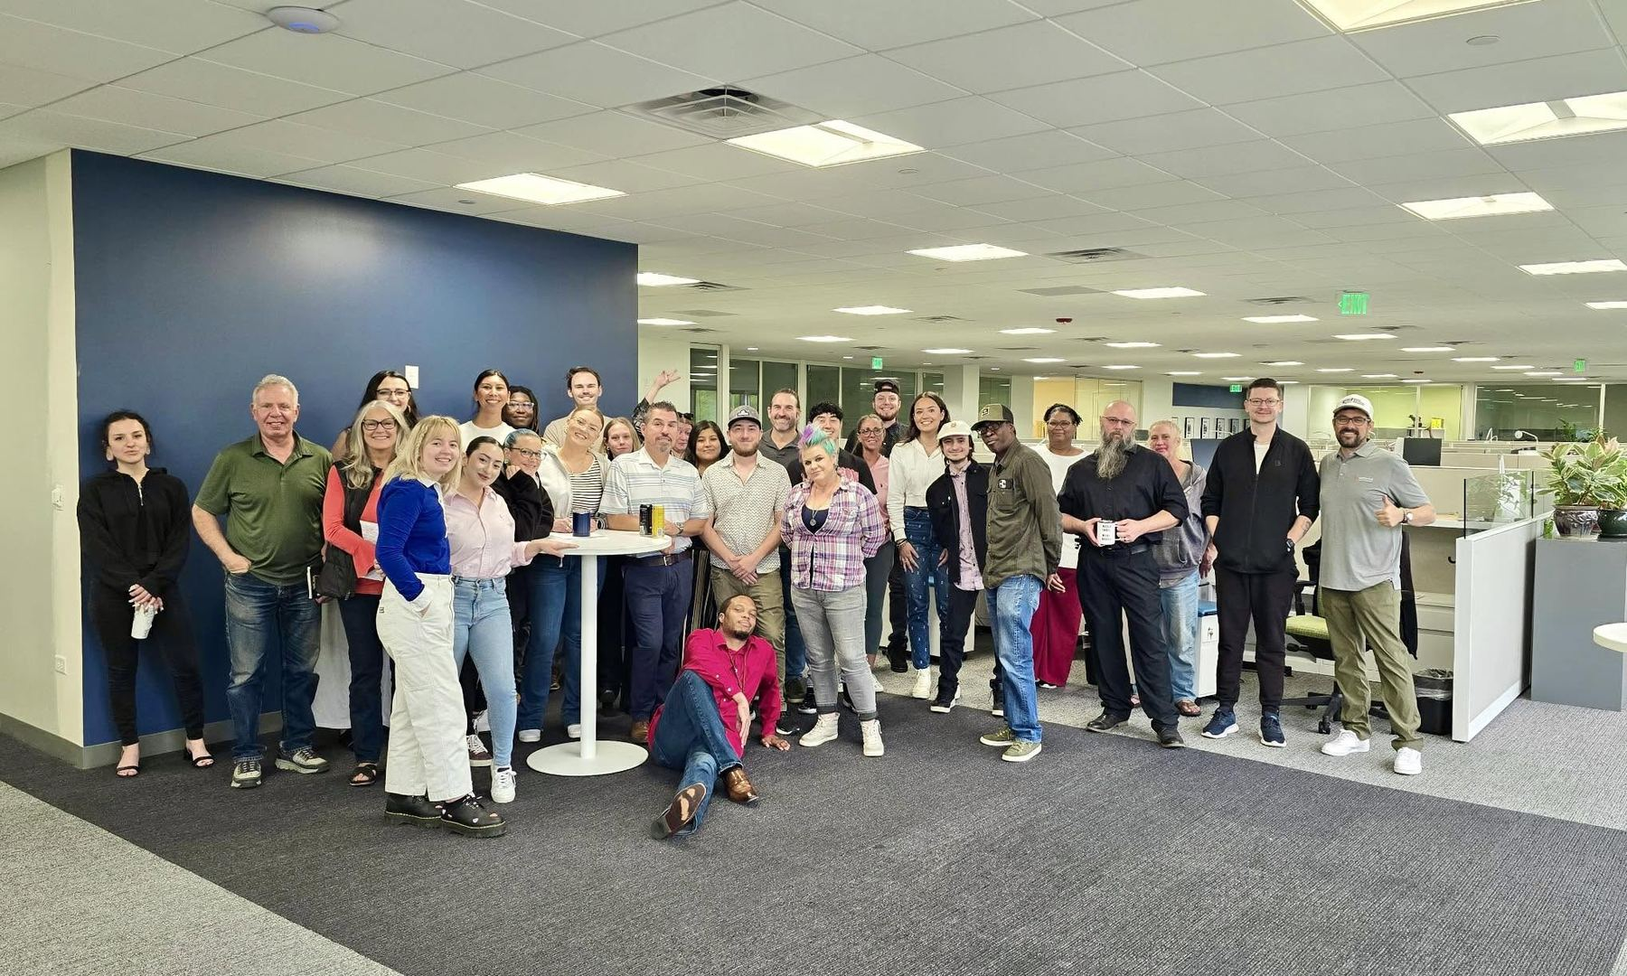
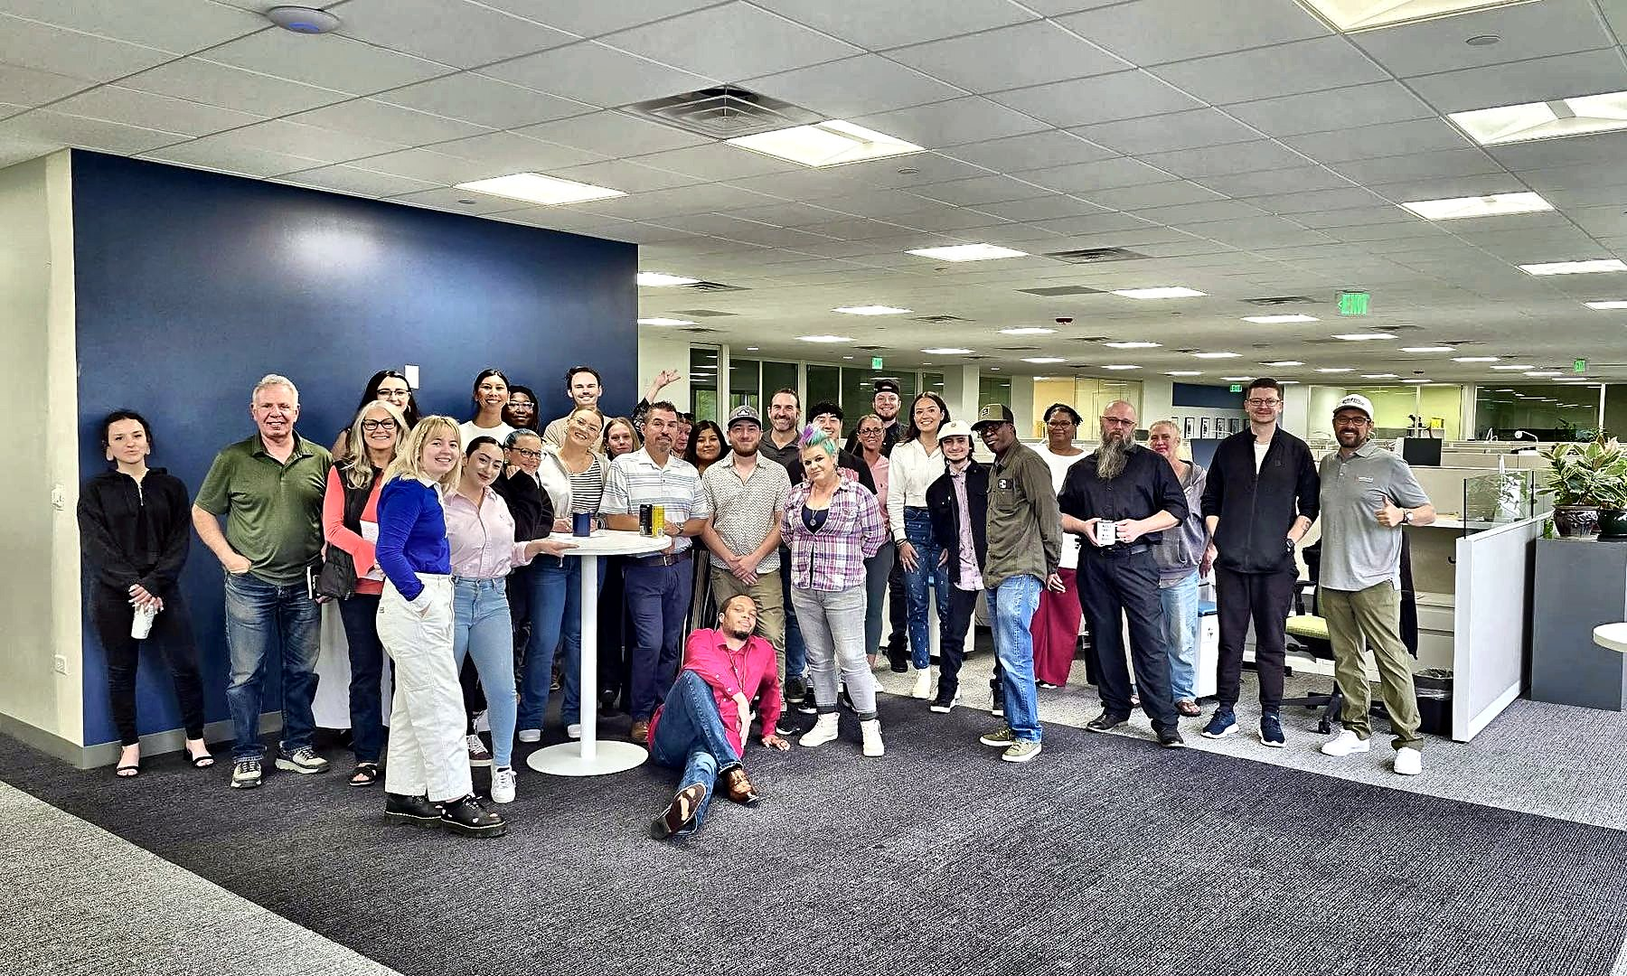
Photo fixes: Medicare/Health images replaced, desks photo cropped and enhanced, family photo super-resolved into About story, team-hero copy framed in a glass panel

diff --git a/health-insurance/index.html b/health-insurance/index.html
@@ -23,7 +23,7 @@
 <link rel="preconnect" href="https://fonts.googleapis.com">
 <link rel="preconnect" href="https://fonts.gstatic.com" crossorigin>
 <link rel="stylesheet" href="https://fonts.googleapis.com/css2?family=Poppins:wght@400;500;600;700&display=swap">
-<link rel="stylesheet" href="/assets/site.css?v=121253f4">
+<link rel="stylesheet" href="/assets/site.css?v=a7dca866">
 <script type="application/ld+json">{"@context":"https://schema.org","@type":"InsuranceAgency","name":"Senior Solutions Insurance","url":"https://ssifinalexpense.com/","telephone":"+1-888-957-3337","image":"https://ssifinalexpense.com/assets/ssi-logo.png","address":{"@type":"PostalAddress","streetAddress":"5775 DTC Blvd, Suite 250-S","addressLocality":"Greenwood Village","addressRegion":"CO","postalCode":"80111","addressCountry":"US"},"openingHoursSpecification":[{"@type":"OpeningHoursSpecification","dayOfWeek":["Monday","Tuesday","Wednesday","Thursday","Friday"],"opens":"09:00","closes":"19:00"},{"@type":"OpeningHoursSpecification","dayOfWeek":"Saturday","opens":"09:00","closes":"17:00"}],"sameAs":["https://www.facebook.com/SeniorSolutionsInsuranceMedicare","https://share.google/7cX0zbH3SjcK8Eqj2","https://www.bbb.org/us/co/denver/profile/funeral-related-services/senior-solutions-insurance-1296-90265012"]}</script>
 <script type="application/ld+json">{"@context":"https://schema.org","@type":"FAQPage","mainEntity":[{"@type":"Question","name":"What is the ACA Open Enrollment period?","acceptedAnswer":{"@type":"Answer","text":"It is the time each year when you can sign up for ACA health insurance plans, typically running from November to January."}},{"@type":"Question","name":"Are subsidies available to lower my premium?","acceptedAnswer":{"@type":"Answer","text":"Yes, subsidies are available for eligible individuals based on income and family size."}},{"@type":"Question","name":"What is ACA Health Insurance?","acceptedAnswer":{"@type":"Answer","text":"ACA health insurance, also known as Obamacare, is a program designed to make health coverage more affordable and accessible."}},{"@type":"Question","name":"Who is eligible for ACA coverage?","acceptedAnswer":{"@type":"Answer","text":"U.S. citizens or legal residents without affordable employer coverage may qualify."}}]}</script>
 </head>
@@ -76,7 +76,7 @@
 </svg>
 
 <section class="hero hero--band hero--navy">
-  <div class="hero__bg" style="background-image:url(/assets/img/agent-desk.jpg)"></div>
+  <div class="hero__bg" style="background-image:url(/assets/img/team-meeting.jpg)"></div>
   <div class="wrap">
     <div class="hero__copy">
       <p class="hero__eyebrow">Health Insurance (ACA)</p>
@@ -100,7 +100,7 @@
       <p class="lede">Marketplace plans under the ACA offer affordable premiums with financial assistance for those who qualify, ensuring coverage for essential health benefits and pre-existing conditions.</p>
       <img class="badge" src="/assets/img/certified.png" alt="Certified by Connect for Health Colorado" width="358" height="141" loading="lazy">
     </div>
-    <img src="/assets/img/agents-desks.jpg" alt="Senior Solutions agents at their desks" width="960" height="808" loading="lazy">
+    <img src="/assets/img/agents-desks.jpg" alt="A Senior Solutions agent on a headset at his desk" width="1200" height="1407" loading="lazy" style="aspect-ratio:4/3;object-fit:cover;object-position:center 40%">
   </div>
 </section>
 

diff --git a/about-us/index.html b/about-us/index.html
@@ -23,7 +23,7 @@
 <link rel="preconnect" href="https://fonts.googleapis.com">
 <link rel="preconnect" href="https://fonts.gstatic.com" crossorigin>
 <link rel="stylesheet" href="https://fonts.googleapis.com/css2?family=Poppins:wght@400;500;600;700&display=swap">
-<link rel="stylesheet" href="/assets/site.css?v=121253f4">
+<link rel="stylesheet" href="/assets/site.css?v=a7dca866">
 <script type="application/ld+json">{"@context":"https://schema.org","@type":"InsuranceAgency","name":"Senior Solutions Insurance","url":"https://ssifinalexpense.com/","telephone":"+1-888-957-3337","image":"https://ssifinalexpense.com/assets/ssi-logo.png","address":{"@type":"PostalAddress","streetAddress":"5775 DTC Blvd, Suite 250-S","addressLocality":"Greenwood Village","addressRegion":"CO","postalCode":"80111","addressCountry":"US"},"openingHoursSpecification":[{"@type":"OpeningHoursSpecification","dayOfWeek":["Monday","Tuesday","Wednesday","Thursday","Friday"],"opens":"09:00","closes":"19:00"},{"@type":"OpeningHoursSpecification","dayOfWeek":"Saturday","opens":"09:00","closes":"17:00"}],"sameAs":["https://www.facebook.com/SeniorSolutionsInsuranceMedicare","https://share.google/7cX0zbH3SjcK8Eqj2","https://www.bbb.org/us/co/denver/profile/funeral-related-services/senior-solutions-insurance-1296-90265012"]}</script>
 </head>
 <body class="page-about" data-path="/about-us/">
@@ -106,7 +106,7 @@
         <p>The founders of Senior Solutions Insurance have varied backgrounds in insurance, business, management, administration and finance. Everyone who works with us starts as an agent and learns every aspect of every product we offer before moving up.</p>
         <div class="insight"><p>"Our clientele personally believe in the expertise provided by Senior Solutions Insurance. We go out of our way to genuinely help others because it is our core value. We make buying Final Expense Insurance easy!"</p><p><strong>— Chris Martin, Founder &amp; CEO</strong></p></div>
       </div>
-      <img src="/assets/img/team-meeting.jpg" alt="The Senior Solutions team around the conference table" width="1600" height="1200" loading="lazy">
+      <img src="/assets/img/founder-family.jpg" alt="Chris Martin with his wife Sarah, their four children and the family dog in a Colorado meadow" width="1400" height="1340" loading="lazy">
     </div>
   </div>
 </section>
@@ -150,7 +150,7 @@
       <figure class="g-wide"><img src="/assets/img/team-highfive.jpg" alt="Two colleagues high-five in the office" loading="lazy"><figcaption>Another family covered</figcaption></figure>
       <figure><img src="/assets/img/agents-desks.jpg" alt="Agents at their desks" loading="lazy"></figure>
       <figure><img src="/assets/img/agent-thumbsup.jpg" alt="An agent gives a thumbs up from her desk" loading="lazy"></figure>
-      <figure class="g-wide"><img src="/assets/img/founder-family.jpg" alt="Chris Martin with his wife Sarah and their four children in a Colorado meadow" loading="lazy" style="object-position:center 30%"><figcaption>Chris and family, near the Rocky Mountains</figcaption></figure>
+      <figure class="g-wide"><img src="/assets/img/team-meeting.jpg" alt="The Senior Solutions team around the conference table" loading="lazy"><figcaption>Monday meeting, around the table</figcaption></figure>
     </div>
   </div>
 </section>

diff --git a/medicare/index.html b/medicare/index.html
@@ -23,7 +23,7 @@
 <link rel="preconnect" href="https://fonts.googleapis.com">
 <link rel="preconnect" href="https://fonts.gstatic.com" crossorigin>
 <link rel="stylesheet" href="https://fonts.googleapis.com/css2?family=Poppins:wght@400;500;600;700&display=swap">
-<link rel="stylesheet" href="/assets/site.css?v=121253f4">
+<link rel="stylesheet" href="/assets/site.css?v=a7dca866">
 <script type="application/ld+json">{"@context":"https://schema.org","@type":"InsuranceAgency","name":"Senior Solutions Insurance","url":"https://ssifinalexpense.com/","telephone":"+1-888-957-3337","image":"https://ssifinalexpense.com/assets/ssi-logo.png","address":{"@type":"PostalAddress","streetAddress":"5775 DTC Blvd, Suite 250-S","addressLocality":"Greenwood Village","addressRegion":"CO","postalCode":"80111","addressCountry":"US"},"openingHoursSpecification":[{"@type":"OpeningHoursSpecification","dayOfWeek":["Monday","Tuesday","Wednesday","Thursday","Friday"],"opens":"09:00","closes":"19:00"},{"@type":"OpeningHoursSpecification","dayOfWeek":"Saturday","opens":"09:00","closes":"17:00"}],"sameAs":["https://www.facebook.com/SeniorSolutionsInsuranceMedicare","https://share.google/7cX0zbH3SjcK8Eqj2","https://www.bbb.org/us/co/denver/profile/funeral-related-services/senior-solutions-insurance-1296-90265012"]}</script>
 </head>
 <body class="page-medicare" data-path="/medicare/">
@@ -86,7 +86,7 @@
 </svg>
 
 <section class="hero hero--band hero--navy">
-  <div class="hero__bg" style="background-image:url(/assets/img/agent-headset.jpg)"></div>
+  <div class="hero__bg" style="background-image:url(/assets/img/team-office.jpg)"></div>
   <div class="wrap">
     <div class="hero__copy">
       <p class="hero__eyebrow">Medicare</p>
@@ -142,7 +142,7 @@
           <blockquote style="display:grid;grid-template-columns:auto 1fr;gap:1.25rem;align-items:center"><img src="/assets/img/johnd.jpg" alt="" width="200" height="230" loading="lazy" style="width:5rem;height:5rem;object-fit:cover;border-radius:50%"><div><p style="padding-top:0;margin-bottom:.4rem">"I found a plan that fit my needs perfectly—and it was so easy!"</p><cite>John D.</cite></div></blockquote>
         </div>
       </div>
-      <img src="/assets/img/agent-desk.jpg" alt="A Senior Solutions agent on a call at his desk" width="1600" height="1296" loading="lazy">
+      <img src="/assets/img/agent-headset.jpg" alt="A Senior Solutions agent on a headset taking notes for a client" width="1400" height="1750" loading="lazy" style="aspect-ratio:4/3;object-fit:cover;object-position:center 30%">
     </div>
   </div>
 </section>

diff --git a/final-expense-insurance/index.html b/final-expense-insurance/index.html
@@ -23,7 +23,7 @@
 <link rel="preconnect" href="https://fonts.googleapis.com">
 <link rel="preconnect" href="https://fonts.gstatic.com" crossorigin>
 <link rel="stylesheet" href="https://fonts.googleapis.com/css2?family=Poppins:wght@400;500;600;700&display=swap">
-<link rel="stylesheet" href="/assets/site.css?v=121253f4">
+<link rel="stylesheet" href="/assets/site.css?v=a7dca866">
 <script type="application/ld+json">{"@context":"https://schema.org","@type":"InsuranceAgency","name":"Senior Solutions Insurance","url":"https://ssifinalexpense.com/","telephone":"+1-888-957-3337","image":"https://ssifinalexpense.com/assets/ssi-logo.png","address":{"@type":"PostalAddress","streetAddress":"5775 DTC Blvd, Suite 250-S","addressLocality":"Greenwood Village","addressRegion":"CO","postalCode":"80111","addressCountry":"US"},"openingHoursSpecification":[{"@type":"OpeningHoursSpecification","dayOfWeek":["Monday","Tuesday","Wednesday","Thursday","Friday"],"opens":"09:00","closes":"19:00"},{"@type":"OpeningHoursSpecification","dayOfWeek":"Saturday","opens":"09:00","closes":"17:00"}],"sameAs":["https://www.facebook.com/SeniorSolutionsInsuranceMedicare","https://share.google/7cX0zbH3SjcK8Eqj2","https://www.bbb.org/us/co/denver/profile/funeral-related-services/senior-solutions-insurance-1296-90265012"]}</script>
 <script type="application/ld+json">{"@context":"https://schema.org","@type":"FAQPage","mainEntity":[{"@type":"Question","name":"What is Final Expense Insurance?","acceptedAnswer":{"@type":"Answer","text":"Final Expense Insurance is a life insurance policy designed to cover end-of-life costs like funeral expenses, medical bills, or unpaid debts."}},{"@type":"Question","name":"How much coverage can I get?","acceptedAnswer":{"@type":"Answer","text":"Policies typically range from $5,000 to $25,000, depending on your needs and budget. The rate table on this page shows $10,000, $20,000 and $30,000; $25,000 falls between the second and third columns."}},{"@type":"Question","name":"How much coverage do I need for final expenses?","acceptedAnswer":{"@type":"Answer","text":"This depends on your personal and family needs, but our agents can help you determine the right amount."}},{"@type":"Question","name":"Can I qualify if I have a pre-existing condition?","acceptedAnswer":{"@type":"Answer","text":"Yes, most applicants can qualify for final expense insurance regardless of pre-existing conditions."}}]}</script>
 </head>

diff --git a/index.html b/index.html
@@ -23,7 +23,7 @@
 <link rel="preconnect" href="https://fonts.googleapis.com">
 <link rel="preconnect" href="https://fonts.gstatic.com" crossorigin>
 <link rel="stylesheet" href="https://fonts.googleapis.com/css2?family=Poppins:wght@400;500;600;700&display=swap">
-<link rel="stylesheet" href="/assets/site.css?v=121253f4">
+<link rel="stylesheet" href="/assets/site.css?v=a7dca866">
 <script type="application/ld+json">{"@context":"https://schema.org","@type":"InsuranceAgency","name":"Senior Solutions Insurance","url":"https://ssifinalexpense.com/","telephone":"+1-888-957-3337","image":"https://ssifinalexpense.com/assets/ssi-logo.png","address":{"@type":"PostalAddress","streetAddress":"5775 DTC Blvd, Suite 250-S","addressLocality":"Greenwood Village","addressRegion":"CO","postalCode":"80111","addressCountry":"US"},"openingHoursSpecification":[{"@type":"OpeningHoursSpecification","dayOfWeek":["Monday","Tuesday","Wednesday","Thursday","Friday"],"opens":"09:00","closes":"19:00"},{"@type":"OpeningHoursSpecification","dayOfWeek":"Saturday","opens":"09:00","closes":"17:00"}],"sameAs":["https://www.facebook.com/SeniorSolutionsInsuranceMedicare","https://share.google/7cX0zbH3SjcK8Eqj2","https://www.bbb.org/us/co/denver/profile/funeral-related-services/senior-solutions-insurance-1296-90265012"]}</script>
 <script type="application/ld+json">{"@context":"https://schema.org","@type":"FAQPage","mainEntity":[{"@type":"Question","name":"What is Final Expense Insurance?","acceptedAnswer":{"@type":"Answer","text":"Final Expense Insurance is a life insurance policy designed to cover end-of-life costs like funeral expenses, medical bills, or unpaid debts."}},{"@type":"Question","name":"How much coverage can I get?","acceptedAnswer":{"@type":"Answer","text":"Policies typically range from $5,000 to $25,000, depending on your needs and budget."}},{"@type":"Question","name":"How much coverage do I need for final expenses?","acceptedAnswer":{"@type":"Answer","text":"This depends on your personal and family needs, but our agents can help you determine the right amount."}},{"@type":"Question","name":"Can I qualify if I have a pre-existing condition?","acceptedAnswer":{"@type":"Answer","text":"Yes, most applicants can qualify for final expense insurance regardless of pre-existing conditions."}}]}</script>
 </head>

diff --git a/contact-us/index.html b/contact-us/index.html
@@ -23,7 +23,7 @@
 <link rel="preconnect" href="https://fonts.googleapis.com">
 <link rel="preconnect" href="https://fonts.gstatic.com" crossorigin>
 <link rel="stylesheet" href="https://fonts.googleapis.com/css2?family=Poppins:wght@400;500;600;700&display=swap">
-<link rel="stylesheet" href="/assets/site.css?v=121253f4">
+<link rel="stylesheet" href="/assets/site.css?v=a7dca866">
 <script type="application/ld+json">{"@context":"https://schema.org","@type":"InsuranceAgency","name":"Senior Solutions Insurance","url":"https://ssifinalexpense.com/","telephone":"+1-888-957-3337","image":"https://ssifinalexpense.com/assets/ssi-logo.png","address":{"@type":"PostalAddress","streetAddress":"5775 DTC Blvd, Suite 250-S","addressLocality":"Greenwood Village","addressRegion":"CO","postalCode":"80111","addressCountry":"US"},"openingHoursSpecification":[{"@type":"OpeningHoursSpecification","dayOfWeek":["Monday","Tuesday","Wednesday","Thursday","Friday"],"opens":"09:00","closes":"19:00"},{"@type":"OpeningHoursSpecification","dayOfWeek":"Saturday","opens":"09:00","closes":"17:00"}],"sameAs":["https://www.facebook.com/SeniorSolutionsInsuranceMedicare","https://share.google/7cX0zbH3SjcK8Eqj2","https://www.bbb.org/us/co/denver/profile/funeral-related-services/senior-solutions-insurance-1296-90265012"]}</script>
 <script type="application/ld+json">{"@context":"https://schema.org","@type":"FAQPage","mainEntity":[{"@type":"Question","name":"Do I have to buy anything?","acceptedAnswer":{"@type":"Answer","text":"No. A call is a conversation about your options. There is no fee and no obligation."}},{"@type":"Question","name":"Who will I be talking to?","acceptedAnswer":{"@type":"Answer","text":"A licensed insurance agent in our Greenwood Village, Colorado office — not a call center."}},{"@type":"Question","name":"What should I have ready?","acceptedAnswer":{"@type":"Answer","text":"Nothing is required. If you have a current policy or a list of medications handy, it helps us compare faster."}}]}</script>
 </head>

diff --git a/src/pages/about-us.html b/src/pages/about-us.html
@@ -37,7 +37,7 @@
         <p>The founders of Senior Solutions Insurance have varied backgrounds in insurance, business, management, administration and finance. Everyone who works with us starts as an agent and learns every aspect of every product we offer before moving up.</p>
         <div class="insight"><p>"Our clientele personally believe in the expertise provided by Senior Solutions Insurance. We go out of our way to genuinely help others because it is our core value. We make buying Final Expense Insurance easy!"</p><p><strong>— Chris Martin, Founder &amp; CEO</strong></p></div>
       </div>
-      <img src="/assets/img/team-meeting.jpg" alt="The Senior Solutions team around the conference table" width="1600" height="1200" loading="lazy">
+      <img src="/assets/img/founder-family.jpg" alt="Chris Martin with his wife Sarah, their four children and the family dog in a Colorado meadow" width="1400" height="1340" loading="lazy">
     </div>
   </div>
 </section>
@@ -81,7 +81,7 @@
       <figure class="g-wide"><img src="/assets/img/team-highfive.jpg" alt="Two colleagues high-five in the office" loading="lazy"><figcaption>Another family covered</figcaption></figure>
       <figure><img src="/assets/img/agents-desks.jpg" alt="Agents at their desks" loading="lazy"></figure>
       <figure><img src="/assets/img/agent-thumbsup.jpg" alt="An agent gives a thumbs up from her desk" loading="lazy"></figure>
-      <figure class="g-wide"><img src="/assets/img/founder-family.jpg" alt="Chris Martin with his wife Sarah and their four children in a Colorado meadow" loading="lazy" style="object-position:center 30%"><figcaption>Chris and family, near the Rocky Mountains</figcaption></figure>
+      <figure class="g-wide"><img src="/assets/img/team-meeting.jpg" alt="The Senior Solutions team around the conference table" loading="lazy"><figcaption>Monday meeting, around the table</figcaption></figure>
     </div>
   </div>
 </section>

diff --git a/assets/site.css b/assets/site.css
@@ -157,8 +157,16 @@ a.trust__item:hover strong{color:var(--gold-muted);}
 .hero--navy::before{background:linear-gradient(90deg,rgba(11,18,32,.92) 0%,rgba(11,18,32,.72) 50%,rgba(11,18,32,.55) 100%);z-index:1;}
 .hero--navy .hero__bg{position:absolute;inset:-3%;background-size:cover;background-position:center 30%;filter:blur(2.5px) saturate(.85);transform:scale(1.03);opacity:.95;}
 /* Team hero — real photo, lighter wash so the people show */
-.hero--team::before{background:linear-gradient(90deg,rgba(11,18,32,.88) 0%,rgba(11,18,32,.6) 45%,rgba(11,18,32,.3) 100%);}
+.hero--team::before{background:linear-gradient(180deg,rgba(11,18,32,.2) 0%,rgba(11,18,32,.5) 100%);}
 .hero--team .hero__bg{filter:none;transform:none;inset:0;opacity:1;background-position:center 35%;}
+.hero--team .hero__copy{
+  max-width:38rem;padding:2rem 2.25rem 2.1rem;border-radius:16px;
+  background:rgba(11,18,32,.78);backdrop-filter:blur(8px);-webkit-backdrop-filter:blur(8px);
+  border:1px solid rgba(255,255,255,.14);border-left:4px solid var(--gold);
+  box-shadow:0 24px 50px rgba(11,18,32,.35);
+}
+.hero--team .hero__sub{max-width:none;}
+.hero--team.hero--band{padding:4rem 0;min-height:24rem;}
 
 /* Founder card — photo kept near its native size so it stays sharp */
 .founder{position:relative;max-width:34rem;margin:0 auto;background:var(--paper);border-radius:18px;overflow:hidden;box-shadow:0 24px 50px rgba(11,18,32,.18);border:1px solid var(--rule);}
@@ -633,6 +641,7 @@ body .ssi-est__steps li[data-state="done"] span{border-color:var(--gold);color:v
   .hero::before{background:rgba(11,18,32,.6);}
   .tool__head,.tool__body{padding:1rem 1.1rem;}
   /* Phone: keep the estimator reachable without a long scroll */
+  .hero--team .hero__copy{padding:1.4rem 1.25rem;}
   .hero--tool{padding:1.75rem 0 2rem;}
   .hero--tool h1{font-size:2.1rem;}
   .hero--tool .hero__sub{font-size:1.05rem;margin-bottom:1rem;}

diff --git a/privacy/index.html b/privacy/index.html
@@ -23,7 +23,7 @@
 <link rel="preconnect" href="https://fonts.googleapis.com">
 <link rel="preconnect" href="https://fonts.gstatic.com" crossorigin>
 <link rel="stylesheet" href="https://fonts.googleapis.com/css2?family=Poppins:wght@400;500;600;700&display=swap">
-<link rel="stylesheet" href="/assets/site.css?v=121253f4">
+<link rel="stylesheet" href="/assets/site.css?v=a7dca866">
 <script type="application/ld+json">{"@context":"https://schema.org","@type":"InsuranceAgency","name":"Senior Solutions Insurance","url":"https://ssifinalexpense.com/","telephone":"+1-888-957-3337","image":"https://ssifinalexpense.com/assets/ssi-logo.png","address":{"@type":"PostalAddress","streetAddress":"5775 DTC Blvd, Suite 250-S","addressLocality":"Greenwood Village","addressRegion":"CO","postalCode":"80111","addressCountry":"US"},"openingHoursSpecification":[{"@type":"OpeningHoursSpecification","dayOfWeek":["Monday","Tuesday","Wednesday","Thursday","Friday"],"opens":"09:00","closes":"19:00"},{"@type":"OpeningHoursSpecification","dayOfWeek":"Saturday","opens":"09:00","closes":"17:00"}],"sameAs":["https://www.facebook.com/SeniorSolutionsInsuranceMedicare","https://share.google/7cX0zbH3SjcK8Eqj2","https://www.bbb.org/us/co/denver/profile/funeral-related-services/senior-solutions-insurance-1296-90265012"]}</script>
 </head>
 <body class="page-privacy" data-path="/privacy/">

diff --git a/src/pages/medicare.html b/src/pages/medicare.html
@@ -17,7 +17,7 @@
 
 {{icons}}
 <section class="hero hero--band hero--navy">
-  <div class="hero__bg" style="background-image:url(/assets/img/agent-headset.jpg)"></div>
+  <div class="hero__bg" style="background-image:url(/assets/img/team-office.jpg)"></div>
   <div class="wrap">
     <div class="hero__copy">
       <p class="hero__eyebrow">Medicare</p>
@@ -73,7 +73,7 @@
           <blockquote style="display:grid;grid-template-columns:auto 1fr;gap:1.25rem;align-items:center"><img src="/assets/img/johnd.jpg" alt="" width="200" height="230" loading="lazy" style="width:5rem;height:5rem;object-fit:cover;border-radius:50%"><div><p style="padding-top:0;margin-bottom:.4rem">"I found a plan that fit my needs perfectly—and it was so easy!"</p><cite>John D.</cite></div></blockquote>
         </div>
       </div>
-      <img src="/assets/img/agent-desk.jpg" alt="A Senior Solutions agent on a call at his desk" width="1600" height="1296" loading="lazy">
+      <img src="/assets/img/agent-headset.jpg" alt="A Senior Solutions agent on a headset taking notes for a client" width="1400" height="1750" loading="lazy" style="aspect-ratio:4/3;object-fit:cover;object-position:center 30%">
     </div>
   </div>
 </section>

diff --git a/src/pages/health-insurance.html b/src/pages/health-insurance.html
@@ -13,7 +13,7 @@
 
 {{icons}}
 <section class="hero hero--band hero--navy">
-  <div class="hero__bg" style="background-image:url(/assets/img/agent-desk.jpg)"></div>
+  <div class="hero__bg" style="background-image:url(/assets/img/team-meeting.jpg)"></div>
   <div class="wrap">
     <div class="hero__copy">
       <p class="hero__eyebrow">Health Insurance (ACA)</p>
@@ -37,7 +37,7 @@
       <p class="lede">Marketplace plans under the ACA offer affordable premiums with financial assistance for those who qualify, ensuring coverage for essential health benefits and pre-existing conditions.</p>
       <img class="badge" src="/assets/img/certified.png" alt="Certified by Connect for Health Colorado" width="358" height="141" loading="lazy">
     </div>
-    <img src="/assets/img/agents-desks.jpg" alt="Senior Solutions agents at their desks" width="960" height="808" loading="lazy">
+    <img src="/assets/img/agents-desks.jpg" alt="A Senior Solutions agent on a headset at his desk" width="1200" height="1407" loading="lazy" style="aspect-ratio:4/3;object-fit:cover;object-position:center 40%">
   </div>
 </section>
 
